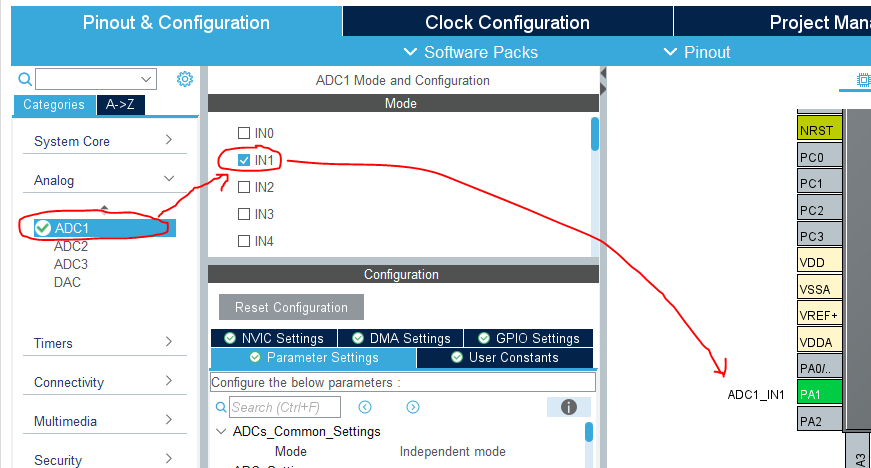
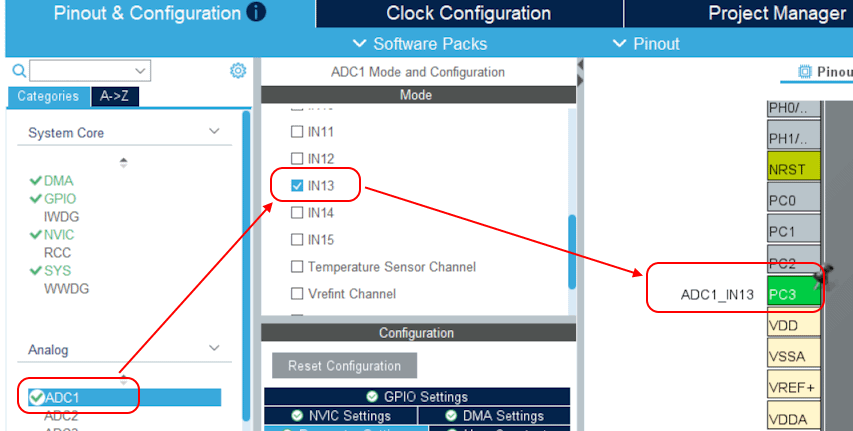
Fix-bug: chuyển chân nối biến trở từ PA1 sang PC13, cho cả mode Interupt và DMA, để tránh xung đột với IC Gyro

diff --git a/Core/Src/stm32f4xx_hal_msp.c b/Core/Src/stm32f4xx_hal_msp.c
@@ -94,14 +94,14 @@ void HAL_ADC_MspInit(ADC_HandleTypeDef* hadc)
     /* Peripheral clock enable */
     __HAL_RCC_ADC1_CLK_ENABLE();
 
-    __HAL_RCC_GPIOA_CLK_ENABLE();
+    __HAL_RCC_GPIOC_CLK_ENABLE();
     /**ADC1 GPIO Configuration
-    PA1     ------> ADC1_IN1
+    PC3     ------> ADC1_IN13
     */
-    GPIO_InitStruct.Pin = GPIO_PIN_1;
+    GPIO_InitStruct.Pin = GPIO_PIN_3;
     GPIO_InitStruct.Mode = GPIO_MODE_ANALOG;
     GPIO_InitStruct.Pull = GPIO_NOPULL;
-    HAL_GPIO_Init(GPIOA, &GPIO_InitStruct);
+    HAL_GPIO_Init(GPIOC, &GPIO_InitStruct);
 
     /* ADC1 DMA Init */
     /* ADC1 Init */
@@ -153,9 +153,9 @@ void HAL_ADC_MspDeInit(ADC_HandleTypeDef* hadc)
     __HAL_RCC_ADC1_CLK_DISABLE();
 
     /**ADC1 GPIO Configuration
-    PA1     ------> ADC1_IN1
+    PC3     ------> ADC1_IN13
     */
-    HAL_GPIO_DeInit(GPIOA, GPIO_PIN_1);
+    HAL_GPIO_DeInit(GPIOC, GPIO_PIN_3);
 
     /* ADC1 DMA DeInit */
     HAL_DMA_DeInit(hadc->DMA_Handle);

diff --git a/Core/Inc/main.h b/Core/Inc/main.h
@@ -61,8 +61,8 @@ void Error_Handler(void);
 
 /* USER CODE BEGIN Private defines */
 //#define MY_ADC_POLLING     //Phương pháp Polling. Để sử dụng, bỏ comment dòng lệnh này và recomment 2 define còn lại.
-//#define MY_ADC_INTERRUPT     // Phương pháp Interrupt. Để sử dụng, bỏ comment dòng lệnh này và recomment 2 define còn lại.
-#define MY_ADC_DMA           // Phương pháp DMA. Để sử dụng, bỏ comment dòng lệnh này và recomment 2 define còn lại.
+#define MY_ADC_INTERRUPT     // Phương pháp Interrupt. Để sử dụng, bỏ comment dòng lệnh này và recomment 2 define còn lại.
+//#define MY_ADC_DMA           // Phương pháp DMA. Để sử dụng, bỏ comment dòng lệnh này và recomment 2 define còn lại.
                              // Tham khảo thêm: https://www.st.com/resource/en/application_note/an4031-using-the-stm32f2-stm32f4-and-stm32f7-series-dma-controller-stmicroelectronics.pdf
 
 #if defined(MY_ADC_POLLING)

diff --git a/Core/Src/main.c b/Core/Src/main.c
@@ -243,7 +243,7 @@ static void MX_ADC1_Init(void)
 
   /** Configure for the selected ADC regular channel its corresponding rank in the sequencer and its sample time.
   */
-  sConfig.Channel = ADC_CHANNEL_1;
+  sConfig.Channel = ADC_CHANNEL_13;
   sConfig.Rank = 1;
   sConfig.SamplingTime = ADC_SAMPLETIME_3CYCLES;
   if (HAL_ADC_ConfigChannel(&hadc1, &sConfig) != HAL_OK)
@@ -316,6 +316,7 @@ static void MX_GPIO_Init(void)
   /* USER CODE END MX_GPIO_Init_1 */
 
   /* GPIO Ports Clock Enable */
+  __HAL_RCC_GPIOC_CLK_ENABLE();
   __HAL_RCC_GPIOA_CLK_ENABLE();
 
   /* USER CODE BEGIN MX_GPIO_Init_2 */

diff --git a/README.md b/README.md
@@ -38,7 +38,7 @@ Phù hợp để áp dụng cho các module cảm biến có chân trả về __
 |3v3|Vcc|
 |GND|GND|
 |PA0 (đóng vai trò tín hiệu ngắt khi vượt ngưỡng)|D0|
-|PA1|A0|
+|PC3|A0|
 
 ## Hướng dẫn sử dụng nhanh
 